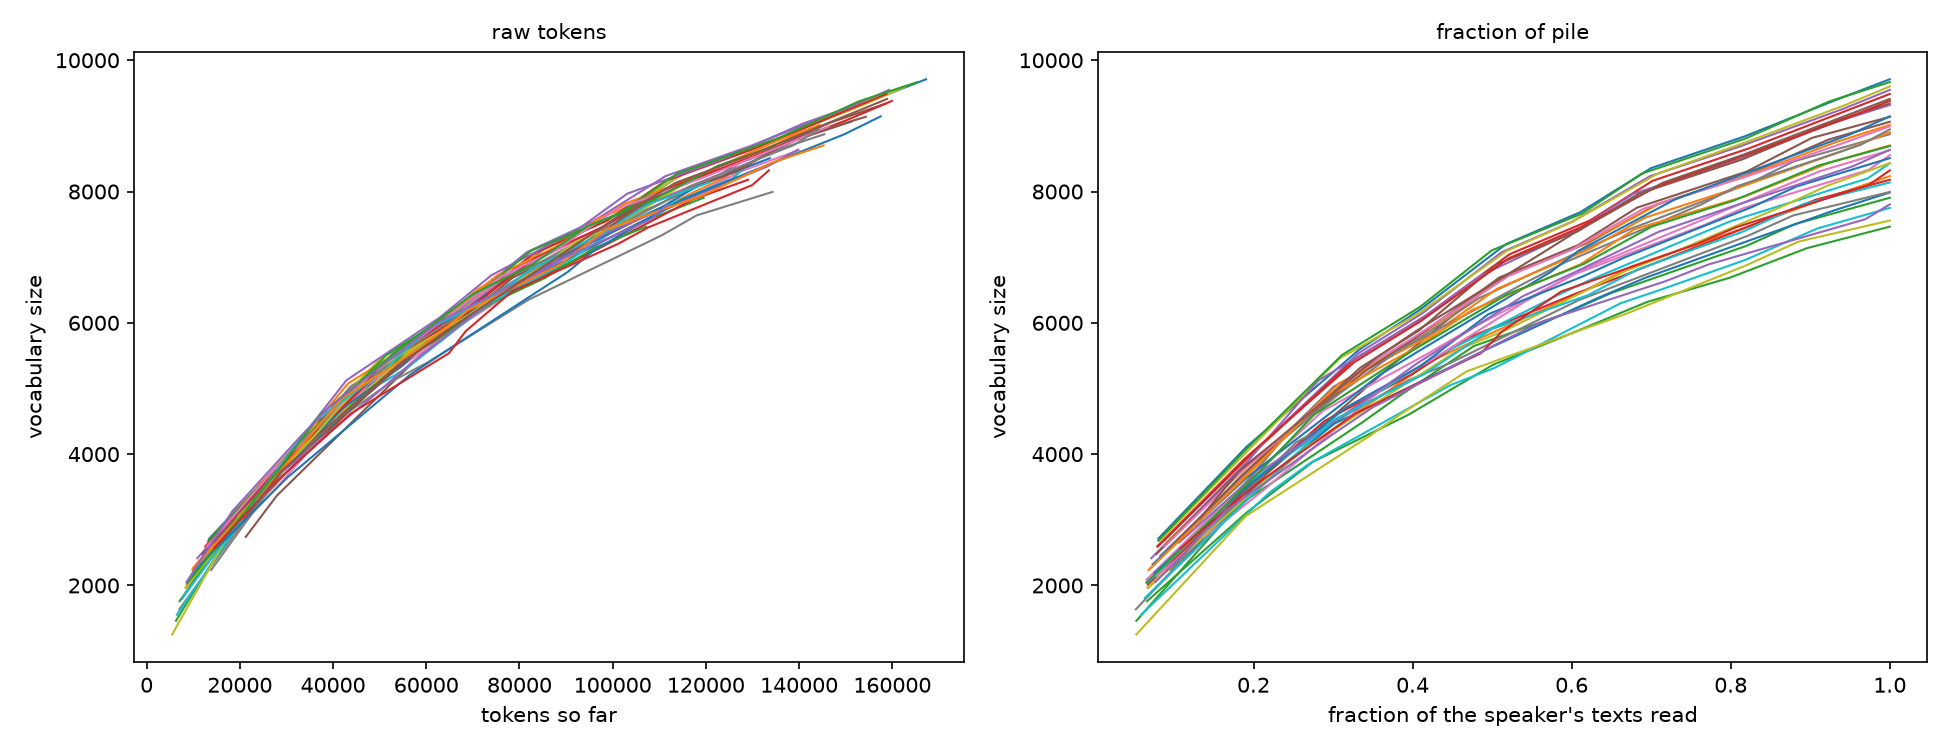
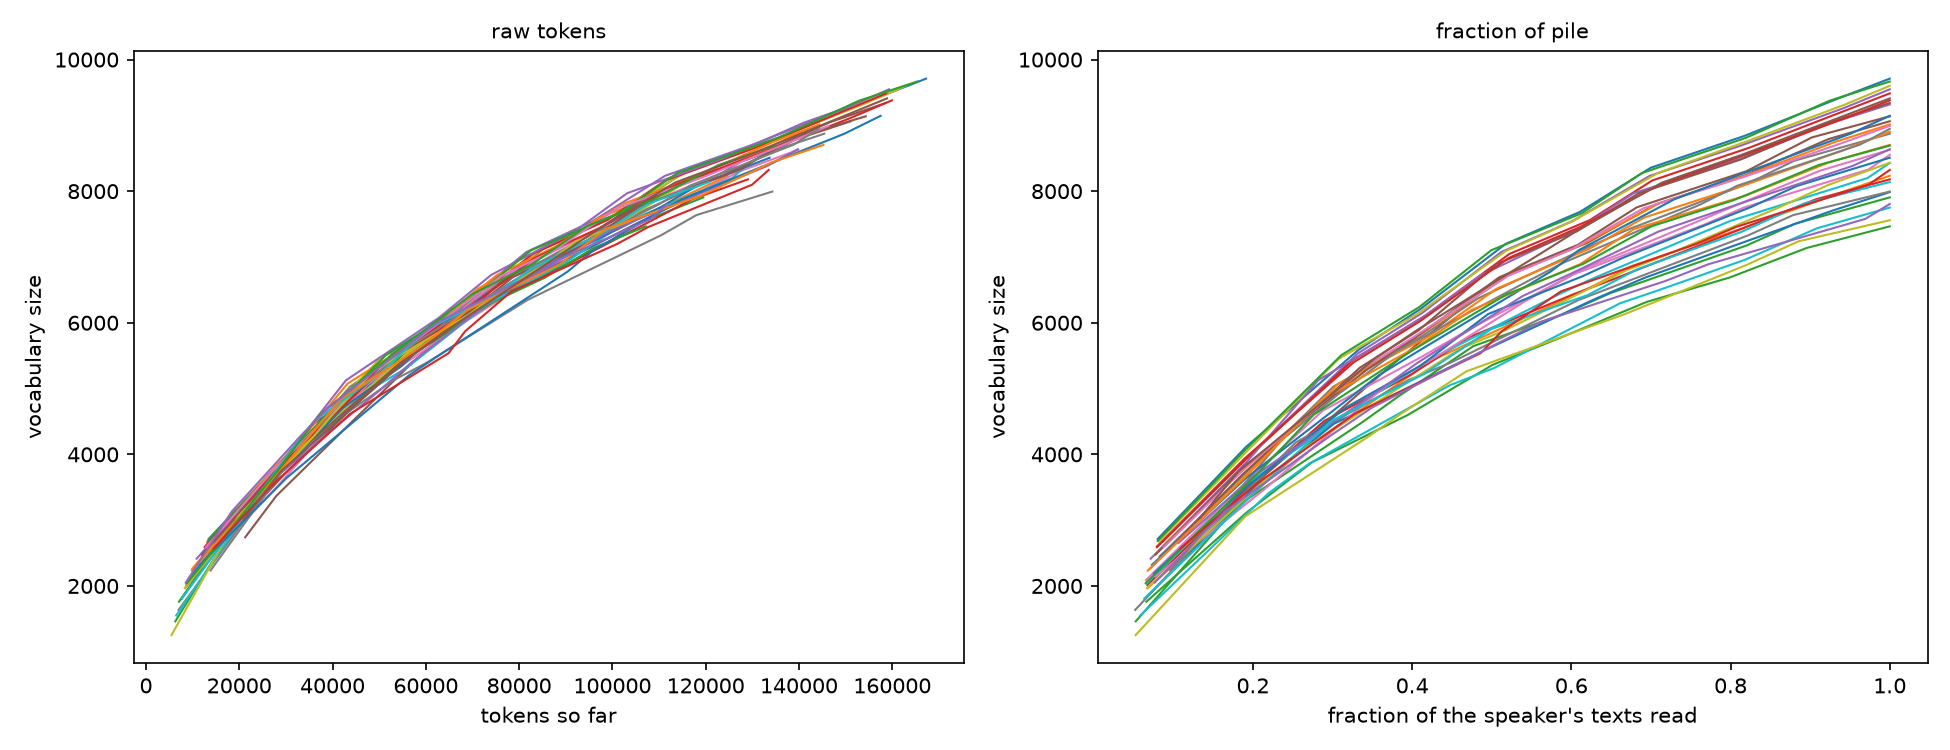
Task 2: unified-notebook build + integration test PASS
scripts/build_submission.py: merges present notebooks in order, dedups
SETUP cells into one preamble, fails loudly on name collisions,
optional --run executes the flat code copy.
Notebook analysis variables now task-prefixed (T1_/T2_) - required by
the shared namespace of the unified notebook.
Build: 29 cells, 3 sections; flat .py executed: exit 0.

diff --git a/notebooks/02_topics.py b/notebooks/02_topics.py
@@ -54,22 +54,22 @@ def _(mo):
 
 @app.cell
 def _(SPEAKERS, counting, plt):
-    FIG, (AX1, AX2) = plt.subplots(1, 2, figsize=(13, 5))
+    T2_FIG, (T2_AX1, T2_AX2) = plt.subplots(1, 2, figsize=(13, 5))
     for _, pile_a in SPEAKERS.groupby("annotator"):
         growth = counting.vocab_growth(pile_a["english_item"])
-        AX1.plot(growth["tokens"], growth["vocab_size"], linewidth=1)
+        T2_AX1.plot(growth["tokens"], growth["vocab_size"], linewidth=1)
         frac = growth["tokens"] / growth["tokens"].iloc[-1]
-        AX2.plot(frac, growth["vocab_size"], linewidth=1)
-    AX1.set_title("raw tokens", fontsize=10)
-    AX1.set_xlabel("tokens so far")
-    AX1.set_ylabel("vocabulary size")
-    AX2.set_title("fraction of pile", fontsize=10)
-    AX2.set_xlabel("fraction of the speaker's texts read")
-    AX2.set_ylabel("vocabulary size")
-    FIG.tight_layout()
-    FIG.savefig("outputs/figures/task2_vocab_growth.png", dpi=150)
-    FIG
-    return (FIG,)
+        T2_AX2.plot(frac, growth["vocab_size"], linewidth=1)
+    T2_AX1.set_title("raw tokens", fontsize=10)
+    T2_AX1.set_xlabel("tokens so far")
+    T2_AX1.set_ylabel("vocabulary size")
+    T2_AX2.set_title("fraction of pile", fontsize=10)
+    T2_AX2.set_xlabel("fraction of the speaker's texts read")
+    T2_AX2.set_ylabel("vocabulary size")
+    T2_FIG.tight_layout()
+    T2_FIG.savefig("outputs/figures/task2_vocab_growth.png", dpi=150)
+    T2_FIG
+    return (T2_FIG,)
 
 
 @app.cell
@@ -105,11 +105,11 @@ def _(mo):
 
 @app.cell
 def _(SPEAKERS, plt, topics):
-    SWEEPS = {}
-    FIG2, AXES = plt.subplots(6, 6, figsize=(17, 14))
-    for ax, (name_b, pile_b) in zip(AXES.flat, SPEAKERS.groupby("annotator")):
+    T2_SWEEPS = {}
+    T2_FIG2, T2_AXES = plt.subplots(6, 6, figsize=(17, 14))
+    for ax, (name_b, pile_b) in zip(T2_AXES.flat, SPEAKERS.groupby("annotator")):
         result = topics.sweep_speaker(name_b, pile_b["english_item"])
-        SWEEPS[name_b] = result
+        T2_SWEEPS[name_b] = result
         ax2 = ax.twinx()
         l1 = ax.plot(result["k"], result["coherence"], "o-", label="coherence")
         l2 = ax2.plot(result["k"], result["perplexity"], "s--",
@@ -117,32 +117,32 @@ def _(SPEAKERS, plt, topics):
         ax.set_title(name_b, fontsize=9)
         ax.tick_params(labelsize=7)
         ax2.tick_params(labelsize=7)
-    AXES[0, 0].legend(l1 + l2, ["coherence", "perplexity"], fontsize=8)
-    FIG2.supxlabel("number of topics (k)")
-    FIG2.tight_layout()
-    FIG2.savefig("outputs/figures/task2_lda_sweeps.png", dpi=150)
-    FIG2
-    return (FIG2, SWEEPS)
+    T2_AXES[0, 0].legend(l1 + l2, ["coherence", "perplexity"], fontsize=8)
+    T2_FIG2.supxlabel("number of topics (k)")
+    T2_FIG2.tight_layout()
+    T2_FIG2.savefig("outputs/figures/task2_lda_sweeps.png", dpi=150)
+    T2_FIG2
+    return (T2_FIG2, T2_SWEEPS)
 
 
 @app.cell
-def _(PROFILES, SWEEPS, pd, topics):
-    BEST = pd.DataFrame(
-        {"best_k": {name2: topics.best_k(r) for name2, r in SWEEPS.items()},
-         "coherence": {name2: r["coherence"].max() for name2, r in SWEEPS.items()}}
+def _(PROFILES, T2_SWEEPS, pd, topics):
+    T2_BEST = pd.DataFrame(
+        {"best_k": {name2: topics.best_k(r) for name2, r in T2_SWEEPS.items()},
+         "coherence": {name2: r["coherence"].max() for name2, r in T2_SWEEPS.items()}}
     )
-    TRAIT_COLS = ["Open.", "Cons.", "Extra.", "Agree.", "Neuro."]
-    TRAIT_NAMES = ["openness", "conscientiousness", "extraversion",
+    T2_TRAIT_COLS = ["Open.", "Cons.", "Extra.", "Agree.", "Neuro."]
+    T2_TRAIT_NAMES = ["openness", "conscientiousness", "extraversion",
                    "agreeableness", "neuroticism"]
-    TRAITS = (PROFILES.set_index("ID")[TRAIT_COLS]
-              .rename(columns=dict(zip(TRAIT_COLS, TRAIT_NAMES))))
-    JOINED = BEST.join(TRAITS)
-    CORR = (JOINED.corr(method="spearman")
-            .loc[TRAIT_NAMES, ["best_k", "coherence"]])
-    JOINED.to_csv("outputs/tables/task2_best_topics.csv")
-    CORR.round(3).to_csv("outputs/tables/task2_trait_correlations.csv")
-    BEST
-    return (BEST, CORR, JOINED, TRAIT_NAMES)
+    T2_TRAITS = (PROFILES.set_index("ID")[T2_TRAIT_COLS]
+              .rename(columns=dict(zip(T2_TRAIT_COLS, T2_TRAIT_NAMES))))
+    T2_JOINED = T2_BEST.join(T2_TRAITS)
+    T2_CORR = (T2_JOINED.corr(method="spearman")
+            .loc[T2_TRAIT_NAMES, ["best_k", "coherence"]])
+    T2_JOINED.to_csv("outputs/tables/task2_best_topics.csv")
+    T2_CORR.round(3).to_csv("outputs/tables/task2_trait_correlations.csv")
+    T2_BEST
+    return (T2_BEST, T2_CORR, T2_JOINED, T2_TRAIT_NAMES)
 
 
 @app.cell
@@ -158,8 +158,8 @@ def _(mo):
 
 
 @app.cell
-def _(CORR, mo):
-    CORR
+def _(T2_CORR, mo):
+    T2_CORR
     return
 
 

diff --git a/notebooks/01_count_words.py b/notebooks/01_count_words.py
@@ -59,20 +59,20 @@ def _(mo):
 
 @app.cell
 def _(PROFILES, SPEAKERS, counting, pd):
-    ROWS = {
+    T1_ROWS = {
         name: counting.speaker_stats(pile["english_item"])
         for name, pile in SPEAKERS.groupby("annotator")
     }
-    STATS = pd.DataFrame(ROWS).T.drop(columns="vocabulary_set").astype(int)
-    TRAIT_COLS = ["Open.", "Cons.", "Extra.", "Agree.", "Neuro."]
-    TRAIT_NAMES = ["openness", "conscientiousness", "extraversion",
+    T1_STATS = pd.DataFrame(T1_ROWS).T.drop(columns="vocabulary_set").astype(int)
+    T1_TRAIT_COLS = ["Open.", "Cons.", "Extra.", "Agree.", "Neuro."]
+    T1_TRAIT_NAMES = ["openness", "conscientiousness", "extraversion",
                    "agreeableness", "neuroticism"]
-    TRAITS = (PROFILES.set_index("ID")[TRAIT_COLS]
-              .rename(columns=dict(zip(TRAIT_COLS, TRAIT_NAMES))))
-    JOINED = STATS.join(TRAITS)
-    STATS.to_csv("outputs/tables/task1_speaker_stats.csv")
-    JOINED
-    return JOINED, TRAIT_NAMES
+    T1_TRAITS = (PROFILES.set_index("ID")[T1_TRAIT_COLS]
+              .rename(columns=dict(zip(T1_TRAIT_COLS, T1_TRAIT_NAMES))))
+    T1_JOINED = T1_STATS.join(T1_TRAITS)
+    T1_STATS.to_csv("outputs/tables/task1_speaker_stats.csv")
+    T1_JOINED
+    return T1_JOINED, T1_TRAIT_NAMES
 
 
 @app.cell
@@ -115,8 +115,8 @@ def _(mo):
 def _(SPEAKERS, counting, plt):
     from matplotlib.ticker import MaxNLocator
 
-    FIG, AXES = plt.subplots(6, 6, figsize=(17, 14), sharex=False)
-    for ax, (name, pile) in zip(AXES.flat, SPEAKERS.groupby("annotator")):
+    T1_FIG, T1_AXES = plt.subplots(6, 6, figsize=(17, 14), sharex=False)
+    for ax, (name, pile) in zip(T1_AXES.flat, SPEAKERS.groupby("annotator")):
         series = counting.chunked_series(pile["english_item"], chunks=10)
         ax.plot(series["tokens"], series["repetitions"], label="repetitions")
         ax.plot(series["tokens"], series["no_words"], label="negations")
@@ -125,14 +125,14 @@ def _(SPEAKERS, counting, plt):
         ax.tick_params(labelsize=7)
         ax.xaxis.set_major_locator(MaxNLocator(4))
         ax.yaxis.set_major_locator(MaxNLocator(5))
-    for ax in AXES.flat:
+    for ax in T1_AXES.flat:
         ax.set_xlabel("")
         ax.set_ylabel("")
-    AXES[0, 0].legend(fontsize=8)
-    FIG.supxlabel("tokens so far")
-    FIG.tight_layout()
-    FIG.savefig("outputs/figures/task1_evolution.png", dpi=150)
-    FIG
+    T1_AXES[0, 0].legend(fontsize=8)
+    T1_FIG.supxlabel("tokens so far")
+    T1_FIG.tight_layout()
+    T1_FIG.savefig("outputs/figures/task1_evolution.png", dpi=150)
+    T1_FIG
     return
 
 
@@ -171,14 +171,14 @@ def _(mo):
 
 
 @app.cell
-def _(JOINED, TRAIT_NAMES):
-    CORR = (JOINED[["tokens", "vocabulary_size", "repetitions", "yes_words",
-                    "no_words"] + TRAIT_NAMES]
+def _(T1_JOINED, T1_TRAIT_NAMES):
+    T1_CORR = (T1_JOINED[["tokens", "vocabulary_size", "repetitions", "yes_words",
+                    "no_words"] + T1_TRAIT_NAMES]
             .corr(method="spearman")
-            .loc[TRAIT_NAMES, ["tokens", "vocabulary_size", "repetitions",
+            .loc[T1_TRAIT_NAMES, ["tokens", "vocabulary_size", "repetitions",
                                "yes_words", "no_words"]])
-    CORR.round(3).to_csv("outputs/tables/task1_trait_correlations.csv")
-    CORR.round(2)
+    T1_CORR.round(3).to_csv("outputs/tables/task1_trait_correlations.csv")
+    T1_CORR.round(2)
     return
 
 
